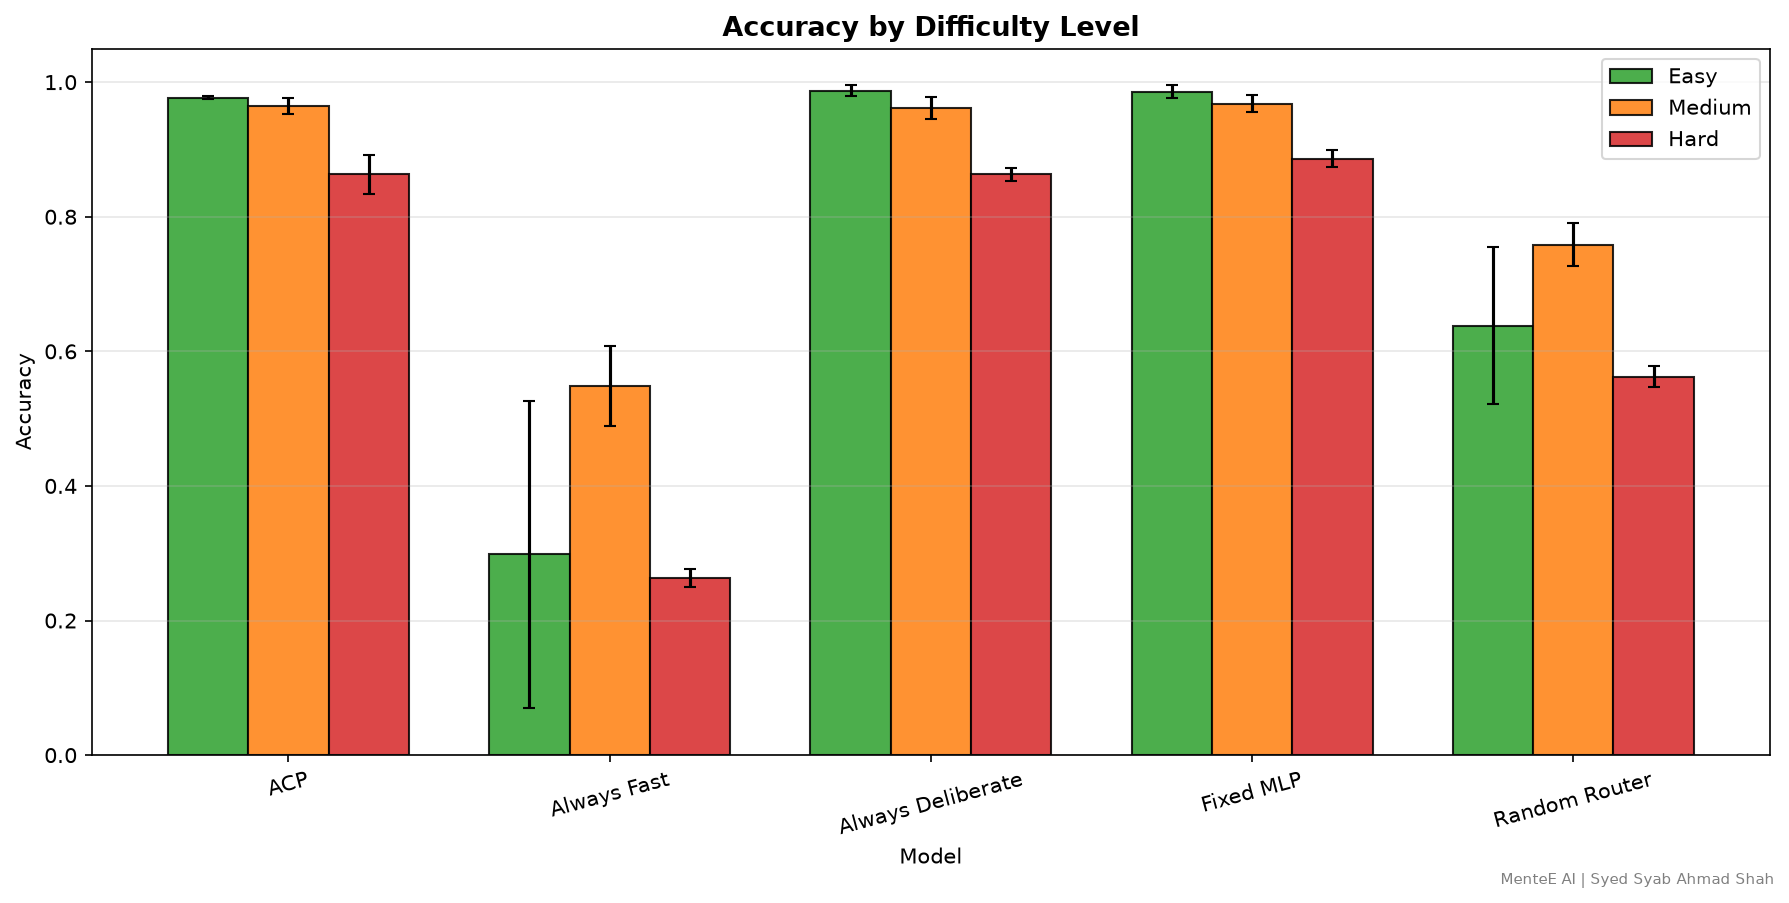
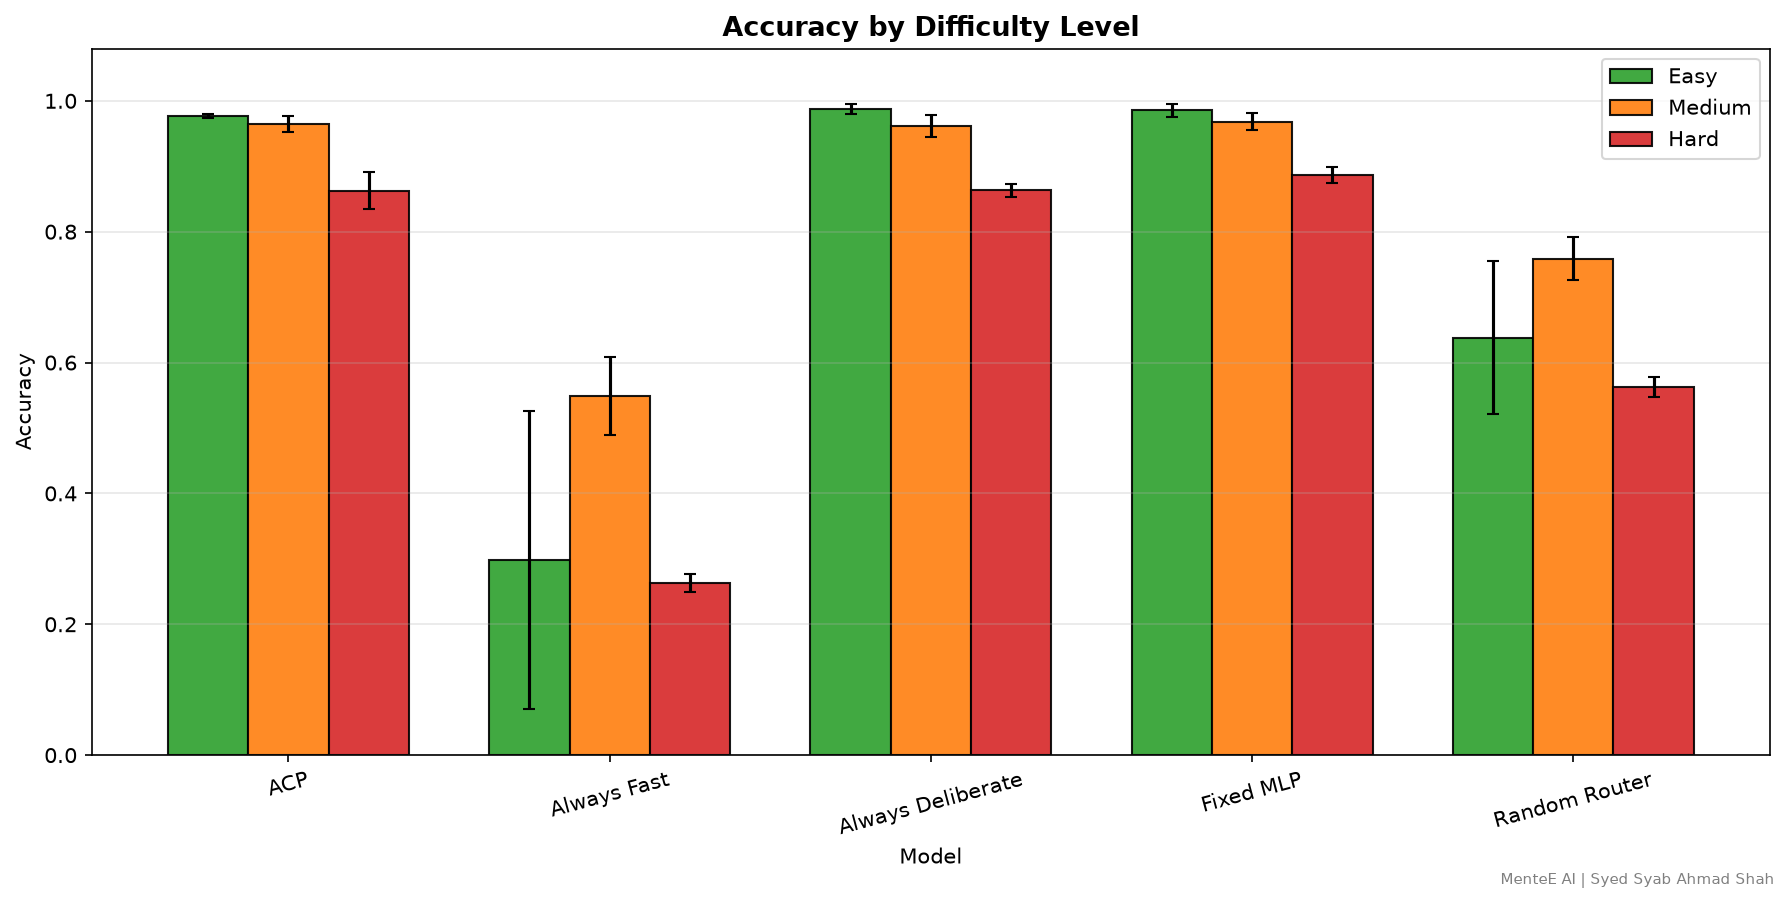
Polish all charts with value labels, add ablation figure and hero summary

diff --git a/charts/generate_charts.py b/charts/generate_charts.py
@@ -1,6 +1,9 @@
 """
 Generate charts for the ACP preprint.
-Requires charts/evaluation_results.json, produced by evaluate.py.
+
+Requires:
+  charts/evaluation_results.json  (from evaluate.py)
+  charts/ablation_novelty.json    (from ablation_novelty.py, optional)
 """
 
 import matplotlib
@@ -18,6 +21,12 @@ DISPLAY = {
     'RandomRouter': 'Random Router',
 }
 
+COLOR_ACP = '#1f77b4'
+COLOR_OTHER = '#d3d3d3'
+COLORS_DIFF = ['#2ca02c', '#ff7f0e', '#d62728']
+COLOR_MEM = '#1f77b4'
+COLOR_XONLY = '#d62728'
+
 
 def load_results(path='charts/evaluation_results.json'):
     if not os.path.exists(path):
@@ -27,9 +36,28 @@ def load_results(path='charts/evaluation_results.json'):
         return json.load(f)
 
 
+def load_ablation(path='charts/ablation_novelty.json'):
+    if not os.path.exists(path):
+        return None
+    with open(path, 'r') as f:
+        return json.load(f)['summary']
+
+
 def add_footer(fig):
     fig.text(0.99, 0.005, 'MenteE AI | Syed Syab Ahmad Shah',
              ha='right', va='bottom', fontsize=7, color='grey')
+
+
+def annotate_bars(ax, fmt='{:.2f}', fontsize=9, dy=2):
+    """Put the value on top of every bar in the axes."""
+    for bar in ax.patches:
+        h = bar.get_height()
+        if h <= 0:
+            continue
+        ax.annotate(fmt.format(h),
+                    (bar.get_x() + bar.get_width() / 2, h),
+                    xytext=(0, dy), textcoords='offset points',
+                    ha='center', va='bottom', fontsize=fontsize)
 
 
 def plot_model_comparison(aggregated, save_path='charts/model_comparison.png'):
@@ -40,23 +68,26 @@ def plot_model_comparison(aggregated, save_path='charts/model_comparison.png'):
     delib_stds = [r['delib_rate_std'] for r in aggregated]
 
     fig, axes = plt.subplots(1, 2, figsize=(12, 5))
-    colors = ['#1f77b4' if m == 'ACP' else '#d3d3d3' for m in models]
+    colors = [COLOR_ACP if r['name'] == 'ACP' else COLOR_OTHER for r in aggregated]
 
     axes[0].bar(models, accs, yerr=acc_stds, capsize=5,
                 color=colors, edgecolor='black', linewidth=0.5)
     axes[0].set_title('Task Accuracy by Model', fontsize=13, fontweight='bold')
     axes[0].set_ylabel('Accuracy')
-    axes[0].set_ylim(0, 1.05)
+    axes[0].set_ylim(0, 1.08)
     axes[0].grid(axis='y', alpha=0.3)
     axes[0].tick_params(axis='x', rotation=15)
+    annotate_bars(axes[0], fontsize=8)
 
     axes[1].bar(models, delibs, yerr=delib_stds, capsize=5,
                 color=colors, edgecolor='black', linewidth=0.5)
-    axes[1].set_title('Average Deliberation Rate by Model', fontsize=13, fontweight='bold')
+    axes[1].set_title('Average Deliberation Rate by Model', fontsize=13,
+                      fontweight='bold')
     axes[1].set_ylabel('Fraction of inputs deliberated')
-    axes[1].set_ylim(0, 1.05)
+    axes[1].set_ylim(0, 1.08)
     axes[1].grid(axis='y', alpha=0.3)
     axes[1].tick_params(axis='x', rotation=15)
+    annotate_bars(axes[1], fontsize=8)
 
     add_footer(fig)
     plt.tight_layout()
@@ -78,18 +109,18 @@ def plot_difficulty_breakdown(aggregated, save_path='charts/difficulty_breakdown
 
     fig, ax = plt.subplots(figsize=(12, 6))
     ax.bar(x - width, easy, width, yerr=easy_s, capsize=3, label='Easy',
-           color='#2ca02c', alpha=0.85, edgecolor='black')
+           color=COLORS_DIFF[0], alpha=0.9, edgecolor='black')
     ax.bar(x, medium, width, yerr=med_s, capsize=3, label='Medium',
-           color='#ff7f0e', alpha=0.85, edgecolor='black')
+           color=COLORS_DIFF[1], alpha=0.9, edgecolor='black')
     ax.bar(x + width, hard, width, yerr=hard_s, capsize=3, label='Hard',
-           color='#d62728', alpha=0.85, edgecolor='black')
+           color=COLORS_DIFF[2], alpha=0.9, edgecolor='black')
 
     ax.set_xlabel('Model')
     ax.set_ylabel('Accuracy')
     ax.set_title('Accuracy by Difficulty Level', fontsize=13, fontweight='bold')
     ax.set_xticks(x)
     ax.set_xticklabels(models, rotation=15)
-    ax.set_ylim(0, 1.05)
+    ax.set_ylim(0, 1.08)
     ax.legend()
     ax.grid(axis='y', alpha=0.3)
 
@@ -109,19 +140,73 @@ def plot_routing_by_difficulty(acp_row, save_path='charts/routing_by_difficulty.
             acp_row['hard_delib_std']]
 
     fig, ax = plt.subplots(figsize=(8, 6))
-    colors = ['#2ca02c', '#ff7f0e', '#d62728']
-    bars = ax.bar(labels, rates, yerr=stds, capsize=6, color=colors,
-                  alpha=0.85, edgecolor='black')
+    bars = ax.bar(labels, rates, yerr=stds, capsize=6,
+                  color=COLORS_DIFF, alpha=0.9, edgecolor='black')
 
     ax.set_ylabel('Deliberation Rate')
-    ax.set_title('ACP Routing Decision by Task Difficulty', fontsize=13, fontweight='bold')
-    ax.set_ylim(0, 1.05)
+    ax.set_title('ACP Routing Decision by Task Difficulty', fontsize=13,
+                 fontweight='bold')
+    ax.set_ylim(0, 1.08)
     ax.grid(axis='y', alpha=0.3)
 
-    for bar in bars:
-        height = bar.get_height()
-        ax.text(bar.get_x() + bar.get_width() / 2, height + 0.02,
-                f'{height:.2f}', ha='center', va='bottom', fontweight='bold')
+    for bar, rate in zip(bars, rates):
+        ax.text(bar.get_x() + bar.get_width() / 2, rate + 0.02,
+                f'{rate * 100:.1f}%', ha='center', va='bottom',
+                fontweight='bold', fontsize=11)
+
+    add_footer(fig)
+    plt.tight_layout()
+    plt.savefig(save_path, dpi=150, bbox_inches='tight')
+    print(f"Saved {save_path}")
+
+
+def plot_ablation(summary, save_path='charts/ablation.png'):
+    if summary is None:
+        print("No ablation summary; skipping ablation chart.")
+        return
+
+    keys = ['with_novelty', 'x_only']
+    acc = [summary[k]['accuracy_mean'] for k in keys]
+    acc_std = [summary[k]['accuracy_std'] for k in keys]
+    route = [summary[k]['route_acc_mean'] for k in keys]
+    route_std = [summary[k]['route_acc_std'] for k in keys]
+    easy = [summary[k]['easy_delib_mean'] for k in keys]
+    med = [summary[k]['medium_delib_mean'] for k in keys]
+    hard = [summary[k]['hard_delib_mean'] for k in keys]
+
+    fig, axes = plt.subplots(1, 2, figsize=(12, 5))
+    x = np.arange(2)
+    width = 0.35
+    labels = ['x + novelty', 'x only']
+
+    axes[0].bar(x - width / 2, acc, width, yerr=acc_std, capsize=4,
+                label='Task accuracy', color=COLOR_ACP, edgecolor='black')
+    axes[0].bar(x + width / 2, route, width, yerr=route_std, capsize=4,
+                label='Routing accuracy', color='#ff7f0e', edgecolor='black')
+    axes[0].set_xticks(x)
+    axes[0].set_xticklabels(labels)
+    axes[0].set_ylim(0, 1.12)
+    axes[0].set_ylabel('Score')
+    axes[0].set_title('Accuracy With and Without Memory', fontsize=12,
+                      fontweight='bold')
+    axes[0].legend(loc='lower left')
+    axes[0].grid(axis='y', alpha=0.3)
+    annotate_bars(axes[0], fontsize=8)
+
+    x3 = np.arange(3)
+    axes[1].bar(x3 - width / 2, [easy[0], med[0], hard[0]], width,
+                label='x + novelty', color=COLOR_MEM, edgecolor='black')
+    axes[1].bar(x3 + width / 2, [easy[1], med[1], hard[1]], width,
+                label='x only', color=COLOR_XONLY, edgecolor='black')
+    axes[1].set_xticks(x3)
+    axes[1].set_xticklabels(['Easy', 'Medium', 'Hard'])
+    axes[1].set_ylim(0, 1.08)
+    axes[1].set_ylabel('Deliberation rate')
+    axes[1].set_title('Where the Deliberation Goes', fontsize=12,
+                      fontweight='bold')
+    axes[1].legend(loc='center right')
+    axes[1].grid(axis='y', alpha=0.3)
+    annotate_bars(axes[1], fontsize=8)
 
     add_footer(fig)
     plt.tight_layout()
@@ -133,7 +218,7 @@ def plot_pareto(aggregated, save_path='charts/pareto.png'):
     fig, ax = plt.subplots(figsize=(8, 6))
 
     for r in aggregated:
-        color = '#1f77b4' if r['name'] == 'ACP' else '#d3d3d3'
+        color = COLOR_ACP if r['name'] == 'ACP' else COLOR_OTHER
         ax.errorbar(r['delib_rate_mean'], r['accuracy_mean'],
                     xerr=r['delib_rate_std'], yerr=r['accuracy_std'],
                     fmt='o', markersize=10, color=color,
@@ -144,7 +229,8 @@ def plot_pareto(aggregated, save_path='charts/pareto.png'):
             xytext, ha = (-8, -16), 'right'
         else:
             xytext, ha = (8, 8), 'left'
-        ax.annotate(DISPLAY[r['name']], (r['delib_rate_mean'], r['accuracy_mean']),
+        label = f"{DISPLAY[r['name']]} ({r['accuracy_mean'] * 100:.1f}%)"
+        ax.annotate(label, (r['delib_rate_mean'], r['accuracy_mean']),
                     xytext=xytext, textcoords='offset points',
                     fontsize=9, ha=ha)
 
@@ -161,13 +247,121 @@ def plot_pareto(aggregated, save_path='charts/pareto.png'):
     print(f"Saved {save_path}")
 
 
+def plot_hero(results, acp_row, ablation, save_path='charts/hero_summary.png'):
+    """One-glance summary image for the preprint and social posts."""
+    fig, axes = plt.subplots(2, 2, figsize=(13, 10))
+    width = 0.35
+
+    # A. Routing gradient
+    ax = axes[0][0]
+    rates = [acp_row['easy_delib_mean'], acp_row['medium_delib_mean'],
+             acp_row['hard_delib_mean']]
+    stds = [acp_row['easy_delib_std'], acp_row['medium_delib_std'],
+            acp_row['hard_delib_std']]
+    ax.bar(['Easy', 'Medium', 'Hard'], rates, yerr=stds, capsize=5,
+           color=COLORS_DIFF, alpha=0.9, edgecolor='black')
+    for i, r in enumerate(rates):
+        ax.text(i, r + 0.03, f'{r * 100:.1f}%', ha='center', va='bottom',
+                fontweight='bold', fontsize=11)
+    ax.set_ylim(0, 1.12)
+    ax.set_ylabel('Deliberation rate')
+    ax.set_title('A. Deliberates only when the input is hard',
+                 fontsize=12, fontweight='bold', loc='left')
+    ax.grid(axis='y', alpha=0.3)
+
+    # B. Accuracy vs deliberation
+    ax = axes[0][1]
+    for r in results:
+        color = COLOR_ACP if r['name'] == 'ACP' else COLOR_OTHER
+        ax.errorbar(r['delib_rate_mean'], r['accuracy_mean'],
+                    xerr=r['delib_rate_std'], yerr=r['accuracy_std'],
+                    fmt='o', markersize=9, color=color,
+                    ecolor='gray', capsize=3, markeredgecolor='black')
+        label = f"{DISPLAY[r['name']]} ({r['accuracy_mean'] * 100:.1f}%)"
+        if r['name'] == 'FixedMLP':
+            xytext, ha = (-8, 16), 'right'
+        elif r['name'] == 'AlwaysDeliberate':
+            xytext, ha = (-8, -26), 'right'
+        else:
+            xytext, ha = (8, 8), 'left'
+        ax.annotate(label, (r['delib_rate_mean'], r['accuracy_mean']),
+                    xytext=xytext, textcoords='offset points',
+                    fontsize=9, ha=ha)
+    ax.set_ylim(0, 1.06)
+    ax.set_xlim(-0.05, 1.02)
+    ax.set_ylim(0, 1.05)
+    ax.set_xlabel('Deliberation rate')
+    ax.set_ylabel('Task accuracy')
+    ax.set_title('B. Same accuracy, two-thirds of the deliberation',
+                 fontsize=12, fontweight='bold', loc='left')
+    ax.grid(alpha=0.3)
+
+    # C. Memory ablation
+    ax = axes[1][0]
+    if ablation:
+        vals = [ablation['with_novelty']['accuracy_mean'],
+                ablation['x_only']['accuracy_mean']]
+        errs = [ablation['with_novelty']['accuracy_std'],
+                ablation['x_only']['accuracy_std']]
+        bars = ax.bar(['x + novelty', 'x only'], vals, yerr=errs, capsize=5,
+                      color=[COLOR_MEM, COLOR_XONLY], alpha=0.9,
+                      edgecolor='black')
+        for bar, v in zip(bars, vals):
+            ax.text(bar.get_x() + bar.get_width() / 2, v + 0.02,
+                    f'{v * 100:.1f}%', ha='center', va='bottom',
+                    fontweight='bold', fontsize=11)
+    ax.set_ylim(0, 1.08)
+    ax.set_ylabel('Task accuracy')
+    ax.set_title('C. Memory does real work (3 seeds)',
+                 fontsize=12, fontweight='bold', loc='left')
+    ax.grid(axis='y', alpha=0.3)
+
+    # D. Capacity gap on Hard inputs
+    ax = axes[1][1]
+    acp = next(r for r in results if r['name'] == 'ACP')
+    fast = next(r for r in results if r['name'] == 'AlwaysFast')
+    acp_vals = [acp['easy_acc_mean'], acp['medium_acc_mean'],
+                acp['hard_acc_mean']]
+    fast_vals = [fast['easy_acc_mean'], fast['medium_acc_mean'],
+                 fast['hard_acc_mean']]
+    x3 = np.arange(3)
+    ax.bar(x3 - width / 2, acp_vals, width, label='ACP',
+           color=COLOR_ACP, edgecolor='black')
+    ax.bar(x3 + width / 2, fast_vals, width, label='Linear fast path',
+           color='#7f7f7f', edgecolor='black')
+    for xi, v in zip(x3 - width / 2, acp_vals):
+        ax.text(xi, v + 0.02, f'{v * 100:.0f}%', ha='center', va='bottom',
+                fontsize=9, fontweight='bold')
+    for xi, v in zip(x3 + width / 2, fast_vals):
+        ax.text(xi, v + 0.02, f'{v * 100:.0f}%', ha='center', va='bottom',
+                fontsize=9)
+    ax.set_xticks(x3)
+    ax.set_xticklabels(['Easy', 'Medium', 'Hard'])
+    ax.set_ylim(0, 1.12)
+    ax.set_ylabel('Task accuracy')
+    ax.set_title('D. The linear fast path cannot handle Hard inputs',
+                 fontsize=12, fontweight='bold', loc='left')
+    ax.legend(loc='lower left')
+    ax.grid(axis='y', alpha=0.3)
+
+    fig.suptitle('Think While You Speak: Adaptive Cognitive Processing',
+                 fontsize=15, fontweight='bold', y=0.995)
+    add_footer(fig)
+    plt.tight_layout(rect=[0, 0.01, 1, 0.97])
+    plt.savefig(save_path, dpi=150, bbox_inches='tight')
+    print(f"Saved {save_path}")
+
+
 if __name__ == "__main__":
     results = load_results()
+    ablation = load_ablation()
+    acp_row = next(r for r in results if r['name'] == 'ACP')
     os.makedirs('charts', exist_ok=True)
 
     plot_model_comparison(results)
     plot_difficulty_breakdown(results)
-    acp_row = next(r for r in results if r['name'] == 'ACP')
     plot_routing_by_difficulty(acp_row)
     plot_pareto(results)
+    plot_ablation(ablation)
+    plot_hero(results, acp_row, ablation)
     print("All charts generated in charts/ folder")

diff --git a/charts/README.md b/charts/README.md
@@ -13,12 +13,14 @@ Organization: [MenteE AI](https://menteeai.org)
 
 | File | Description |
 |------|-------------|
-| `generate_charts.py` | Reads `evaluation_results.json` and writes the PNG figures |
+| `generate_charts.py` | Reads the JSON results and writes the PNG figures |
 | `make_results_table.py` | Reads `evaluation_results.json` and writes the LaTeX table snippets |
 | `model_comparison.png` | Accuracy and deliberation rate by model |
 | `difficulty_breakdown.png` | Accuracy per difficulty level (Easy / Medium / Hard) |
 | `routing_by_difficulty.png` | ACP deliberation rate by task difficulty |
 | `pareto.png` | Accuracy vs deliberation rate |
+| `ablation.png` | Memory ablation: accuracy and deliberation allocation |
+| `hero_summary.png` | One-glance summary of the four key results (for posts) |
 | `results_table.tex` | Main comparison table (generated) |
 | `difficulty_table.tex` | Per-difficulty table (generated) |
 | `ablation_table.tex` | Memory versus x-only ablation table (generated) |
@@ -37,16 +39,17 @@ python charts/generate_charts.py
 
 ## LaTeX
 
-`paper.ltx` references the figures as:
+`paper.ltx` references these files from this folder:
 
 - `charts/routing_by_difficulty.png`
 - `charts/difficulty_breakdown.png`
 - `charts/pareto.png`
-
-It also inputs the generated tables:
-
+- `charts/ablation.png`
 - `charts/results_table.tex`
 - `charts/difficulty_table.tex`
+- `charts/ablation_table.tex`
+
+`charts/hero_summary.png` is a one-glance summary for social posts; the paper does not embed it.
 
 Keep this folder next to `paper.ltx` when compiling on Overleaf or locally with `pdflatex`. If your online IDE requires a `.tex` extension, rename `paper.ltx` to `paper.tex`; the content is standard LaTeX.
 
